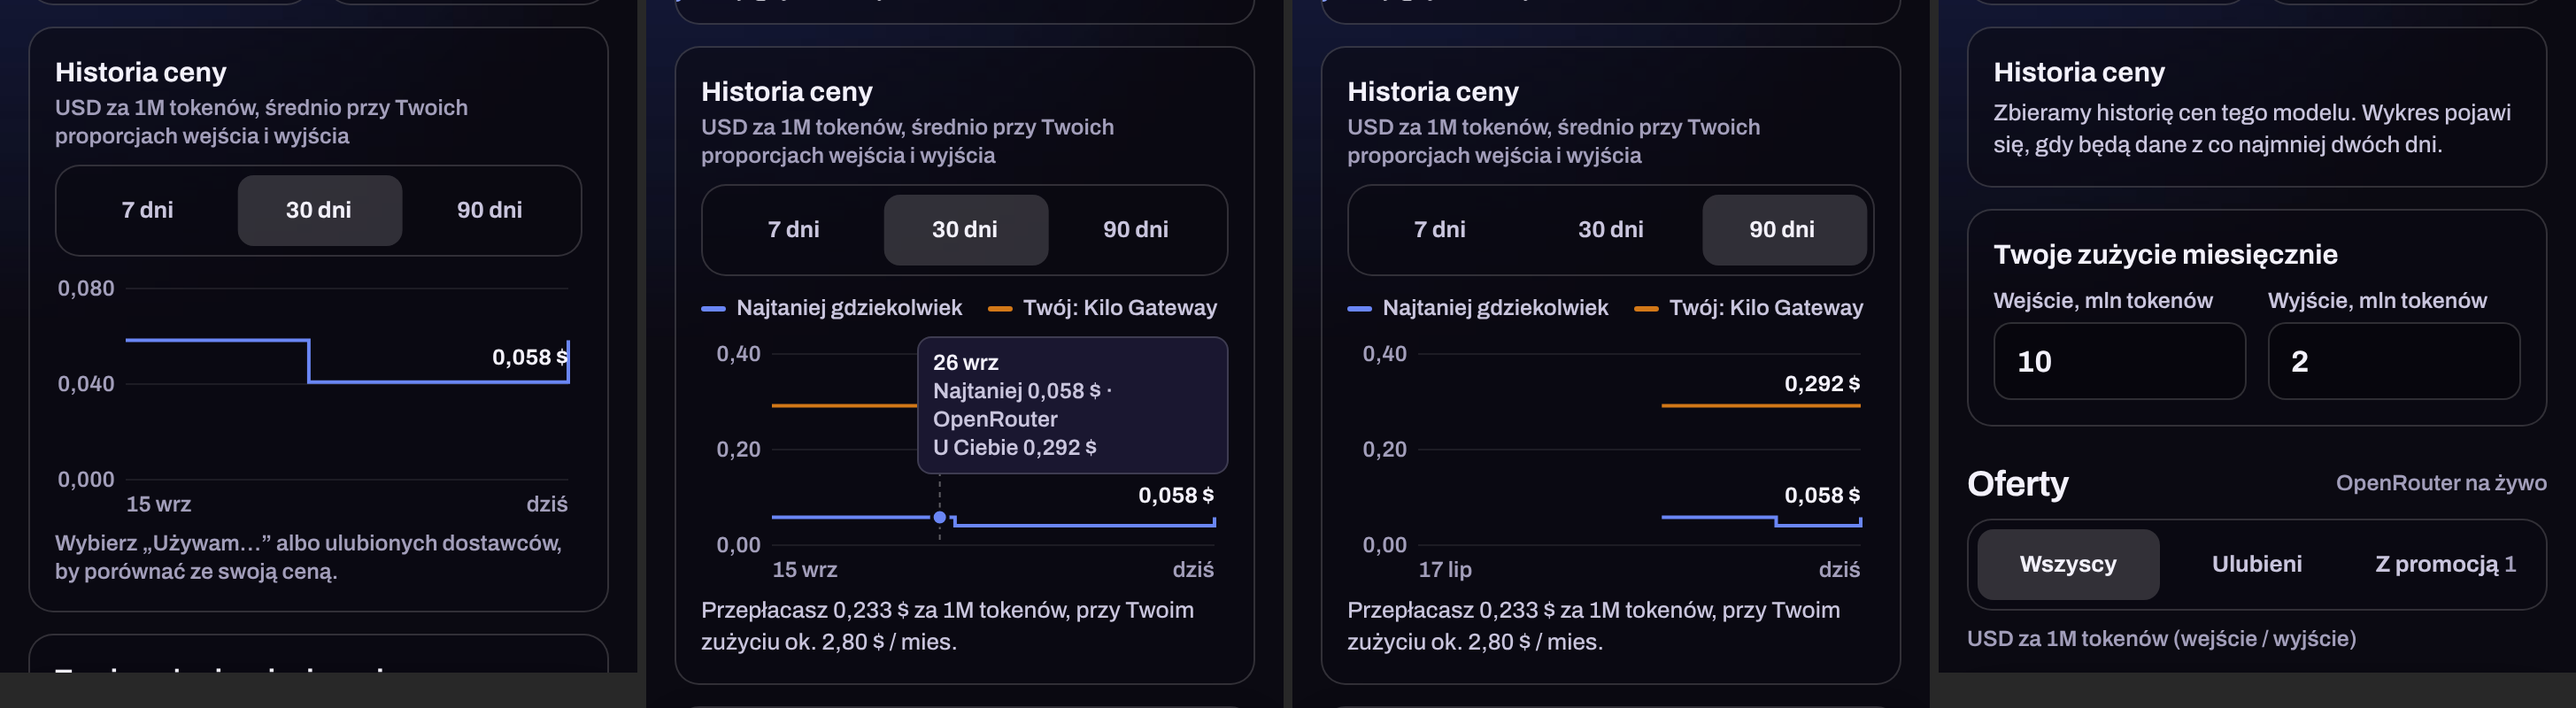
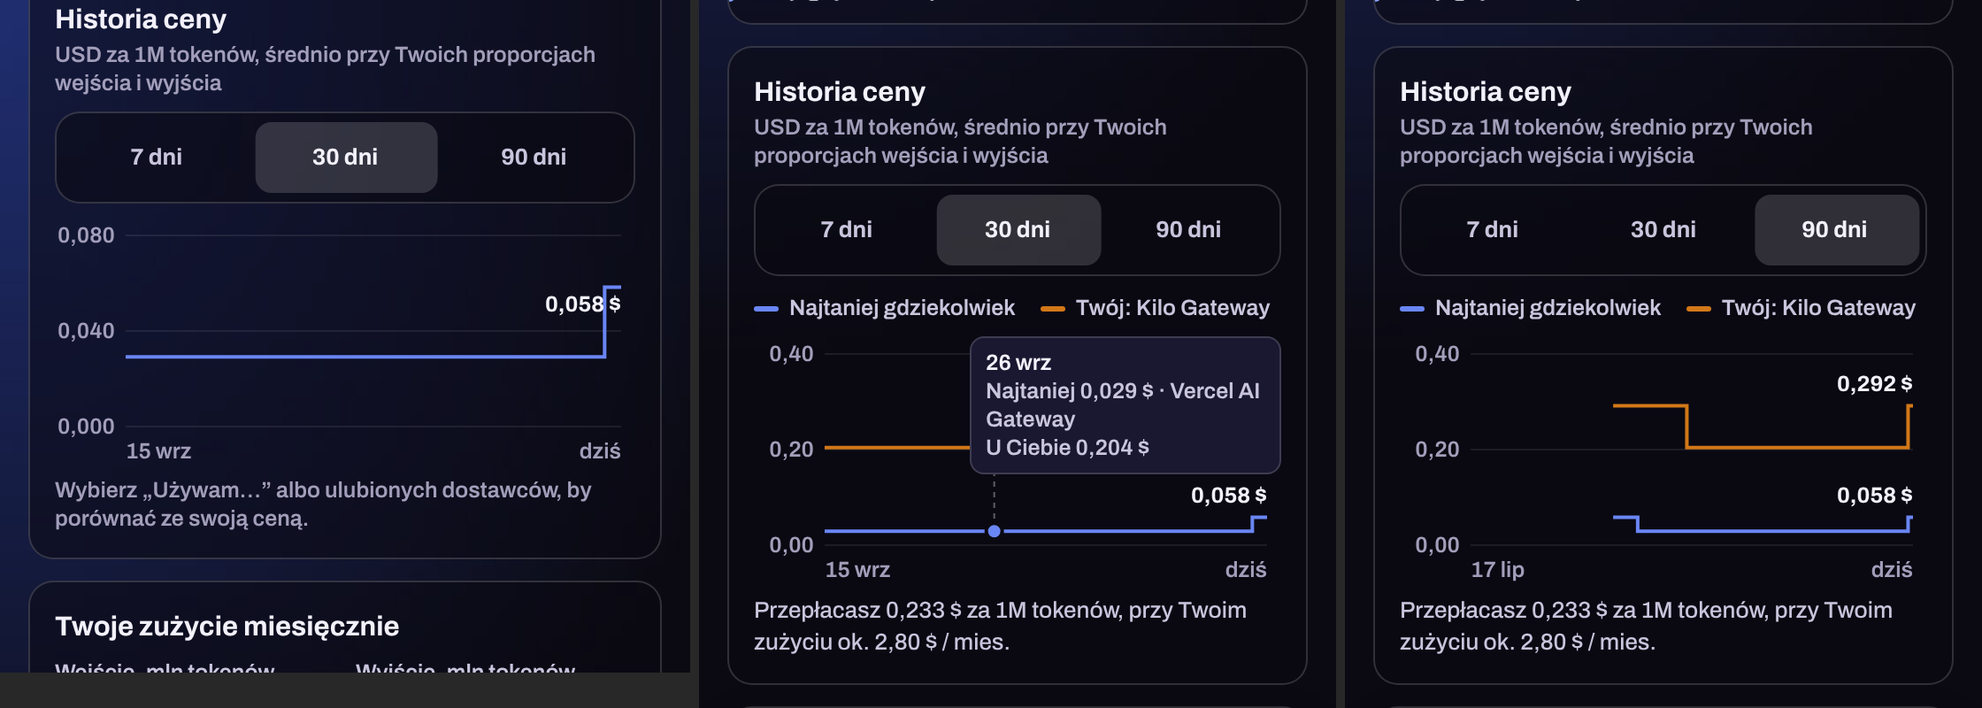
Bez dopisku o models.dev, wykres: dzień jako odcinek, przykładowa historia w podglądzie web
Claude-Session: https://claude.ai/code/session_01Uh88x1vbmcxDAnttmENW3j

diff --git a/tanitoken/mobile/src/PriceChart.js b/tanitoken/mobile/src/PriceChart.js
@@ -34,16 +34,17 @@ const dayLabel = (day) => {
   }
 };
 
-// Linia schodkowa; przerwa tam, gdzie brak danych.
+// Linia schodkowa: każdy dzień ma swój odcinek [x(i), x(i + 1)], więc zmiana ceny dziś też jest widoczna.
+// Przerwa tam, gdzie brak danych.
 function stepPath(points, key, x, y) {
   let d = '';
   let prev = null;
   points.forEach((p, i) => {
     const v = p[key];
     if (v == null) { prev = null; return; }
-    d += prev == null ? `M${x(i)},${y(v)}` : `H${x(i)}V${y(v)}`;
+    d += prev == null ? `M${x(i)},${y(v)}` : `V${y(v)}`;
+    d += `H${x(i + 1)}`;
     prev = v;
-    if (i === points.length - 1 || points[i + 1][key] == null) d += `H${x(i === points.length - 1 ? i : i + 1)}`;
   });
   return d;
 }
@@ -84,7 +85,7 @@ export default function PriceChart({ model, usage = DEFAULT_USAGE, used = null, 
   const top = niceTop(Math.max(...vals));
   const dec = top < 0.1 ? 3 : top < 10 ? 2 : 0;
   const W = w || 300;
-  const x = (i) => PL + (i / (points.length - 1)) * (W - PL - PR);
+  const x = (i) => PL + (i / points.length) * (W - PL - PR);
   const y = (v) => PT + (1 - v / top) * (H - PT - PB);
   const last = points[points.length - 1];
   const hasMine = !!mine && points.some((p) => p.mine != null);
@@ -100,10 +101,11 @@ export default function PriceChart({ model, usage = DEFAULT_USAGE, used = null, 
 
   const onTouch = (e) => {
     const lx = e.nativeEvent.locationX;
-    const i = Math.round(((lx - PL) / (W - PL - PR)) * (points.length - 1));
+    const i = Math.floor(((lx - PL) / (W - PL - PR)) * points.length);
     setPick(Math.max(0, Math.min(points.length - 1, i)));
   };
   const p = pick != null ? points[pick] : null;
+  const px = pick != null ? x(pick + 0.5) : 0; // środek dnia
 
   // Etykiety cen na końcu linii: wyższa cena nad swoją linią, niższa pod (albo nad, gdy brak miejsca przy osi).
   const LH = 18;
@@ -154,9 +156,9 @@ export default function PriceChart({ model, usage = DEFAULT_USAGE, used = null, 
             <Path d={stepPath(points, 'best', x, y)} stroke={t.chartBest} strokeWidth={2} fill="none" />
             {p ? (
               <>
-                <Line x1={x(pick)} x2={x(pick)} y1={PT} y2={H - PB} stroke="rgba(255,255,255,0.35)" strokeDasharray="3 3" />
-                {p.mine != null && hasMine ? <Circle cx={x(pick)} cy={y(p.mine)} r={4.5} fill={t.chartMine} stroke={t.bg} strokeWidth={2} /> : null}
-                {p.best != null ? <Circle cx={x(pick)} cy={y(p.best)} r={4.5} fill={t.chartBest} stroke={t.bg} strokeWidth={2} /> : null}
+                <Line x1={px} x2={px} y1={PT} y2={H - PB} stroke="rgba(255,255,255,0.35)" strokeDasharray="3 3" />
+                {p.mine != null && hasMine ? <Circle cx={px} cy={y(p.mine)} r={4.5} fill={t.chartMine} stroke={t.bg} strokeWidth={2} /> : null}
+                {p.best != null ? <Circle cx={px} cy={y(p.best)} r={4.5} fill={t.chartBest} stroke={t.bg} strokeWidth={2} /> : null}
               </>
             ) : null}
           </Svg>
@@ -173,7 +175,7 @@ export default function PriceChart({ model, usage = DEFAULT_USAGE, used = null, 
           </>
         ) : null}
         {p && w ? (
-          <View pointerEvents="none" style={[s.tip, { backgroundColor: t.cardSolid, borderColor: t.glassLine, left: Math.max(0, Math.min(W - 176, x(pick) + (x(pick) > W / 2 ? -184 : 8))) }]}>
+          <View pointerEvents="none" style={[s.tip, { backgroundColor: t.cardSolid, borderColor: t.glassLine, left: Math.max(0, Math.min(W - 176, px + (px > W / 2 ? -184 : 8))) }]}>
             <T kind="tiny">{dayLabel(p.day)}</T>
             <T kind="tiny" color="ink2">{tr('history.tipBest', { price: formatUsd(p.best), name: name(p.bestKey) })}</T>
             {hasMine ? <T kind="tiny" color="ink2">{p.mine != null ? tr('history.tipMine', { price: formatUsd(p.mine) }) : tr('history.tipNoMine')}</T> : null}

diff --git a/tanitoken/core/locales/fr.js b/tanitoken/core/locales/fr.js
@@ -137,7 +137,7 @@ export default {
   'model.useA11y': 'J’utilise {name}',
   'model.noFav': 'Aucun de vos favoris ne vend ce modèle.',
   'model.noPromo': 'Aucune offre en promo.',
-  'model.footnote': 'Les tarifs « en direct » viennent du catalogue models.dev et peuvent être obsolètes. Les liens « Partenaire » sont affiliés ; l’ordre dépend uniquement du prix.',
+  'model.footnote': "Les liens « Partenaire » sont affiliés ; l’ordre dépend uniquement du prix.",
 
   'state.gone': 'Le fournisseur a disparu',
   'state.inPromo': 'Promo −{pct} %',
@@ -236,7 +236,7 @@ export default {
   'backup.saveDialog': 'Enregistrer le profil LightTokenz',
   'backup.notProfile': 'Ce n’est pas un fichier de profil LightTokenz.',
   'about.title': 'À propos de l’app',
-  'about.body': 'Prix d’OpenRouter, Vercel AI Gateway, fal.ai, Requesty et du catalogue models.dev, vérifiés sur votre téléphone. Les liens « Partenaire » sont affiliés et l’ordre dépend uniquement du prix.',
+  'about.body': "Nous vérifions les prix nous-mêmes, sur votre téléphone et sur notre serveur. Les liens « Partenaire » sont affiliés et l’ordre dépend uniquement du prix.",
   'about.privacy': 'Confidentialité',
   'about.reset': 'Supprimer le profil',
   'about.resetTitle': 'Supprimer le profil ?',

diff --git a/tanitoken/core/locales/de.js b/tanitoken/core/locales/de.js
@@ -137,7 +137,7 @@ export default {
   'model.useA11y': 'Ich nutze {name}',
   'model.noFav': 'Keiner deiner Favoriten bietet dieses Modell an.',
   'model.noPromo': 'Keine Angebote mit Rabatt.',
-  'model.footnote': 'Preislisten „direkt“ stammen aus dem Katalog models.dev und können veraltet sein. „Partner“-Links sind Affiliate-Links; die Reihenfolge richtet sich nur nach dem Preis.',
+  'model.footnote': "„Partner“-Links sind Affiliate-Links; die Reihenfolge richtet sich nur nach dem Preis.",
 
   'state.gone': 'Anbieter nicht mehr da',
   'state.inPromo': 'Angebot −{pct} %',
@@ -236,7 +236,7 @@ export default {
   'backup.saveDialog': 'LightTokenz-Profil speichern',
   'backup.notProfile': 'Das ist keine LightTokenz-Profildatei.',
   'about.title': 'Über die App',
-  'about.body': 'Preise von OpenRouter, Vercel AI Gateway, fal.ai, Requesty und dem Katalog models.dev, geprüft auf deinem Telefon. „Partner“-Links sind Affiliate-Links, die Reihenfolge richtet sich nur nach dem Preis.',
+  'about.body': "Wir prüfen die Preise selbst, auf deinem Telefon und auf unserem Server. „Partner“-Links sind Affiliate-Links, die Reihenfolge richtet sich nur nach dem Preis.",
   'about.privacy': 'Datenschutz',
   'about.reset': 'Profil löschen',
   'about.resetTitle': 'Profil löschen?',

diff --git a/tanitoken/core/locales/it.js b/tanitoken/core/locales/it.js
@@ -137,7 +137,7 @@ export default {
   'model.useA11y': 'Uso {name}',
   'model.noFav': 'Nessuno dei tuoi preferiti vende questo modello.',
   'model.noPromo': 'Nessuna offerta scontata.',
-  'model.footnote': 'I listini “diretto” provengono dal catalogo models.dev e potrebbero non essere aggiornati. I link “Partner” sono di affiliazione; l’ordine dipende solo dal prezzo.',
+  'model.footnote': "I link “Partner” sono di affiliazione; l’ordine dipende solo dal prezzo.",
 
   'state.gone': 'Il fornitore è sparito',
   'state.inPromo': 'Offerta −{pct}%',
@@ -236,7 +236,7 @@ export default {
   'backup.saveDialog': 'Salva il profilo LightTokenz',
   'backup.notProfile': 'Non è un file di profilo LightTokenz.',
   'about.title': 'Informazioni sull’app',
-  'about.body': 'Prezzi da OpenRouter, Vercel AI Gateway, fal.ai, Requesty e dal catalogo models.dev, controllati sul tuo telefono. I link “Partner” sono di affiliazione e l’ordine dipende solo dal prezzo.',
+  'about.body': "Controlliamo i prezzi noi stessi, sul tuo telefono e sul nostro server. I link “Partner” sono di affiliazione e l’ordine dipende solo dal prezzo.",
   'about.privacy': 'Privacy',
   'about.reset': 'Elimina profilo',
   'about.resetTitle': 'Eliminare il profilo?',

diff --git a/tanitoken/core/locales/es.js b/tanitoken/core/locales/es.js
@@ -137,7 +137,7 @@ export default {
   'model.useA11y': 'Uso {name}',
   'model.noFav': 'Ninguno de tus favoritos vende este modelo.',
   'model.noPromo': 'No hay ofertas con descuento.',
-  'model.footnote': 'Las tarifas “directo” vienen del catálogo models.dev y pueden estar desactualizadas. Los enlaces “Socio” son de afiliado; el orden depende solo del precio.',
+  'model.footnote': "Los enlaces “Socio” son de afiliado; el orden depende solo del precio.",
 
   'state.gone': 'El proveedor ya no está',
   'state.inPromo': 'Oferta −{pct}%',
@@ -236,7 +236,7 @@ export default {
   'backup.saveDialog': 'Guardar perfil de LightTokenz',
   'backup.notProfile': 'No es un archivo de perfil de LightTokenz.',
   'about.title': 'Sobre la app',
-  'about.body': 'Precios de OpenRouter, Vercel AI Gateway, fal.ai, Requesty y el catálogo models.dev, comprobados en tu teléfono. Los enlaces “Socio” son de afiliado y el orden depende solo del precio.',
+  'about.body': "Comprobamos los precios nosotros mismos, en tu teléfono y en nuestro servidor. Los enlaces “Socio” son de afiliado y el orden depende solo del precio.",
   'about.privacy': 'Privacidad',
   'about.reset': 'Borrar perfil',
   'about.resetTitle': '¿Borrar el perfil?',

diff --git a/tanitoken/core/locales/pl.js b/tanitoken/core/locales/pl.js
@@ -137,7 +137,7 @@ export default {
   'model.useA11y': 'Używam {name}',
   'model.noFav': 'Żaden z ulubionych dostawców nie sprzedaje tego modelu.',
   'model.noPromo': 'Brak ofert z promocją.',
-  'model.footnote': 'Cenniki „bezpośrednio” pochodzą z katalogu models.dev i mogą być nieaktualne. Linki „Partner” są partnerskie, kolejność zależy tylko od ceny.',
+  'model.footnote': "Linki „Partner” są partnerskie, kolejność ofert zależy wyłącznie od ceny.",
 
   'state.gone': 'Dostawca zniknął',
   'state.inPromo': 'Promocja −{pct}%',
@@ -236,7 +236,7 @@ export default {
   'backup.saveDialog': 'Zapisz profil LightTokenz',
   'backup.notProfile': 'To nie jest plik profilu LightTokenz.',
   'about.title': 'O aplikacji',
-  'about.body': 'Ceny z OpenRouter, Vercel AI Gateway, fal.ai, Requesty i katalogu models.dev, sprawdzane na Twoim telefonie. Linki „Partner” są partnerskie, a kolejność ofert zależy wyłącznie od ceny.',
+  'about.body': "Ceny sprawdzamy sami, na Twoim telefonie i na naszym serwerze. Linki „Partner” są partnerskie, a kolejność ofert zależy wyłącznie od ceny.",
   'about.privacy': 'Prywatność',
   'about.reset': 'Usuń profil',
   'about.resetTitle': 'Usunąć profil?',

diff --git a/tanitoken/core/locales/en.js b/tanitoken/core/locales/en.js
@@ -137,7 +137,7 @@ export default {
   'model.useA11y': 'I use {name}',
   'model.noFav': 'None of your favourites sells this model.',
   'model.noPromo': 'No offers on deal.',
-  'model.footnote': '“Direct” price lists come from the models.dev catalogue and may be out of date. “Partner” links are affiliate links; offers are ordered by price only.',
+  'model.footnote': "“Partner” links are affiliate links; offers are ordered by price only.",
 
   'state.gone': 'Provider is gone',
   'state.inPromo': 'Deal −{pct}%',
@@ -236,7 +236,7 @@ export default {
   'backup.saveDialog': 'Save LightTokenz profile',
   'backup.notProfile': 'This is not a LightTokenz profile file.',
   'about.title': 'About the app',
-  'about.body': 'Prices from OpenRouter, Vercel AI Gateway, fal.ai, Requesty and the models.dev catalogue, checked on your phone. “Partner” links are affiliate links, and offers are ordered by price only.',
+  'about.body': "We check prices ourselves, on your phone and on our server. “Partner” links are affiliate links, and offers are ordered by price only.",
   'about.privacy': 'Privacy',
   'about.reset': 'Delete profile',
   'about.resetTitle': 'Delete profile?',

diff --git a/tanitoken/CHANGELOG.md b/tanitoken/CHANGELOG.md
@@ -41,6 +41,10 @@ Wybór użytkownika z makiety `mockups/history.png`: wariant B (najtaniej gdziek
   ulubieni; para sprawdzona walidatorem palety), legenda, 7 / 30 / 90 dni, dymek po dotknięciu (dzień, najtańszy
   dostawca, Twoja cena), ceny na końcu linii, „Przepłacasz X za 1M tokenów, ok. Y / mies.”. Za mało danych:
   „Zbieramy historię cen…”. Bez wybranego dostawcy: jedna linia i podpowiedź. Tryb Zwykły: tylko platformy.
+- Poprawka po uwadze użytkownika: usunięty dopisek „cenniki z models.dev mogą być nieaktualne” (my jesteśmy
+  źródłem); stopka karty modelu mówi tylko o linkach partnerskich, „O apce”: „Ceny sprawdzamy sami…”.
+- Wykres: każdy dzień ma swój odcinek, więc zmiana ceny dziś też jest widoczna. Podgląd web dostaje
+  PRZYKŁADOWĄ historię 60 dni (`web-preview.mjs`), bo prawdziwa zbiera się od dziś.
 - Tłumaczenia `history.*` w 6 językach. Sprawdzone w podglądzie web 360 i 390 px (sztuczna historia 40 dni):
   bez błędów JS i bez wychodzenia poza ekran.
 
